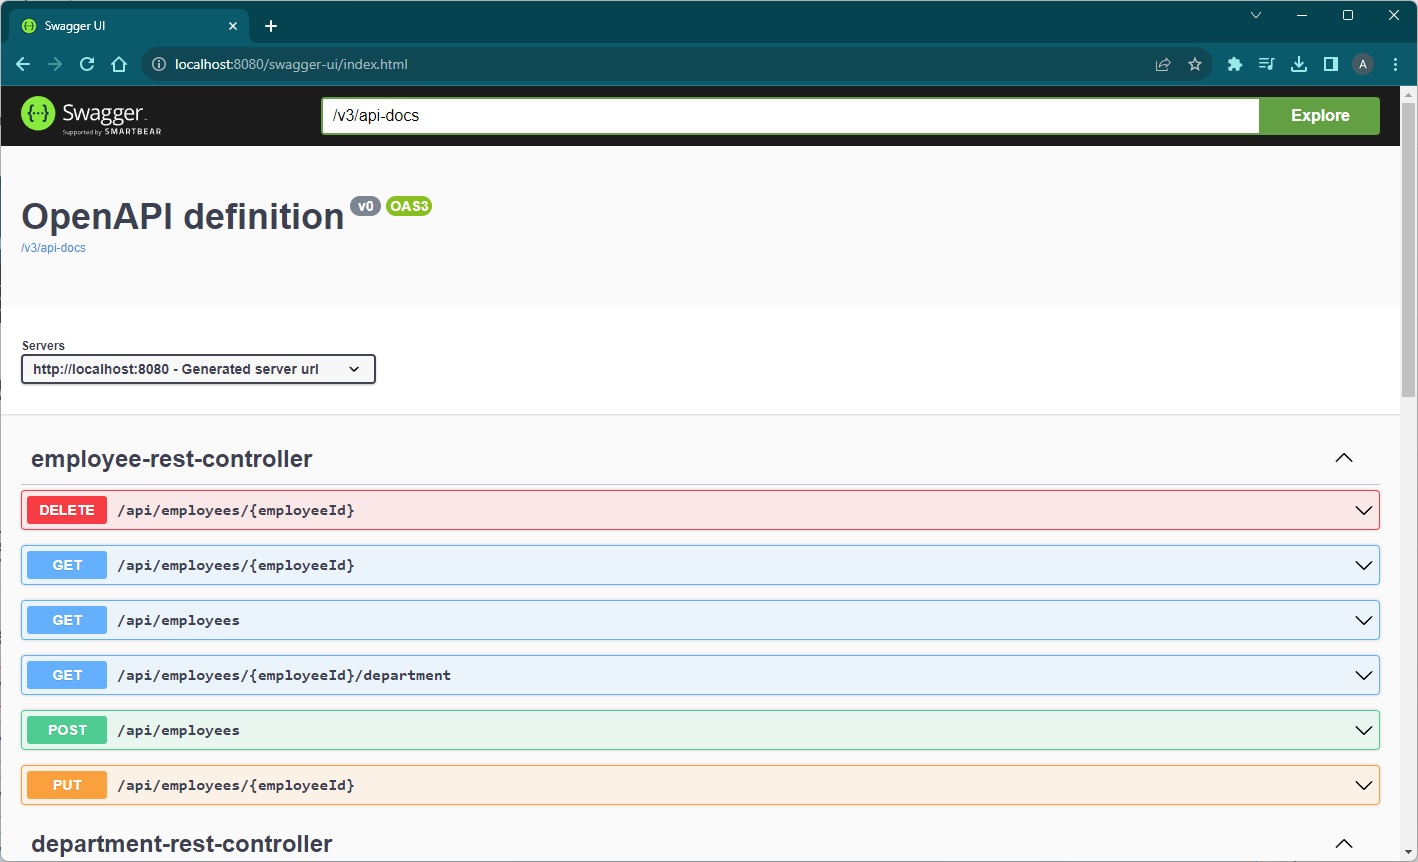
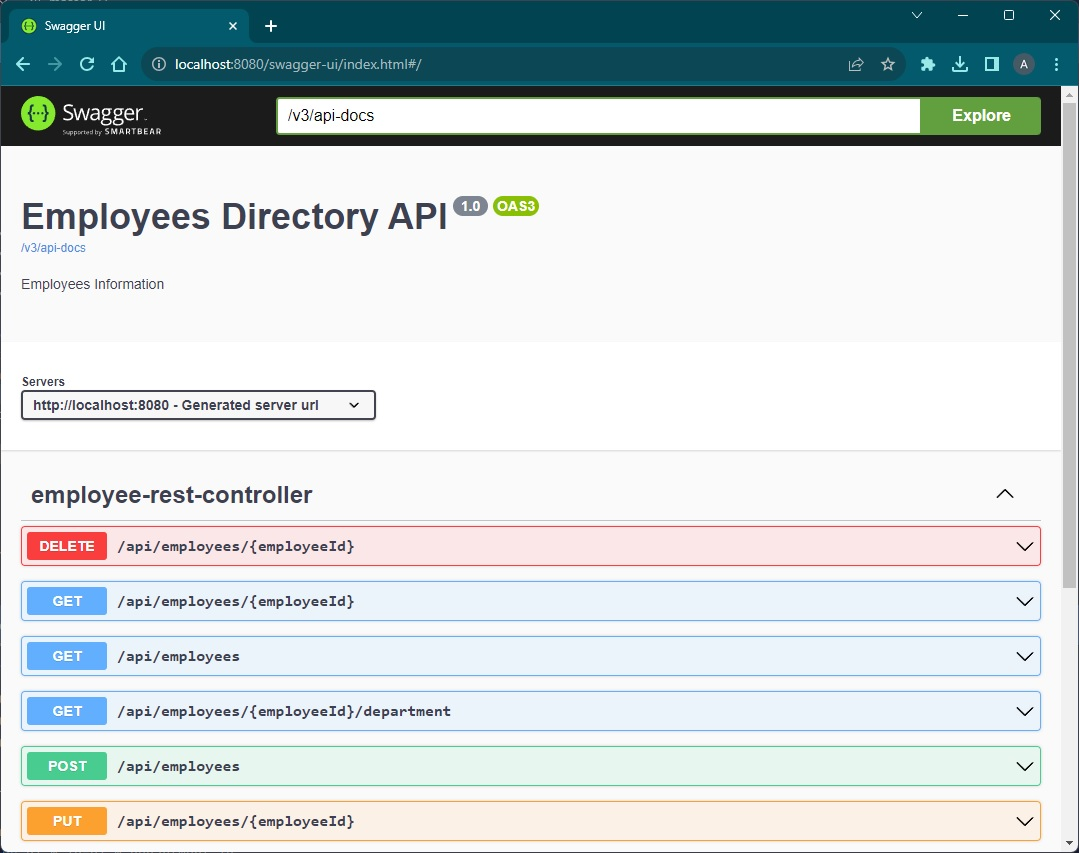
swagger support updated

diff --git a/src/main/java/com/staimov/employee_directory/EmployeeDirectoryApp.java b/src/main/java/com/staimov/employee_directory/EmployeeDirectoryApp.java
@@ -1,9 +1,12 @@
 package com.staimov.employee_directory;
 
+import io.swagger.v3.oas.annotations.OpenAPIDefinition;
+import io.swagger.v3.oas.annotations.info.Info;
 import org.springframework.boot.SpringApplication;
 import org.springframework.boot.autoconfigure.SpringBootApplication;
 
 @SpringBootApplication
+@OpenAPIDefinition(info = @Info(title = "Employees Directory API", version = "1.0", description = "Employees Information"))
 public class EmployeeDirectoryApp {
 
 	public static void main(String[] args) {

diff --git a/src/main/java/com/staimov/employee_directory/controller/FaviconController.java b/src/main/java/com/staimov/employee_directory/controller/FaviconController.java
@@ -1,10 +1,12 @@
 package com.staimov.employee_directory.controller;
 
+import io.swagger.v3.oas.annotations.Hidden;
 import org.springframework.stereotype.Controller;
 import org.springframework.web.bind.annotation.GetMapping;
 import org.springframework.web.bind.annotation.ResponseBody;
 
 @Controller
+@Hidden
 public class FaviconController {
     @GetMapping("favicon.ico")
     @ResponseBody

diff --git a/README.md b/README.md
@@ -3,8 +3,11 @@
 
 1. Apply [new-employee-directory.sql](./new-employee-directory.sql) script to MySQL.
 2. Build and run the app.
+3. http://localhost:8080/
 
 ![screenshot](/src/main/resources/static/images/screenshot.jpg?raw=true)
+
+4. http://localhost:8080/swagger-ui/index.html
 
 ![screenshot2](/src/main/resources/static/images/screenshot2.jpg?raw=true)
 
